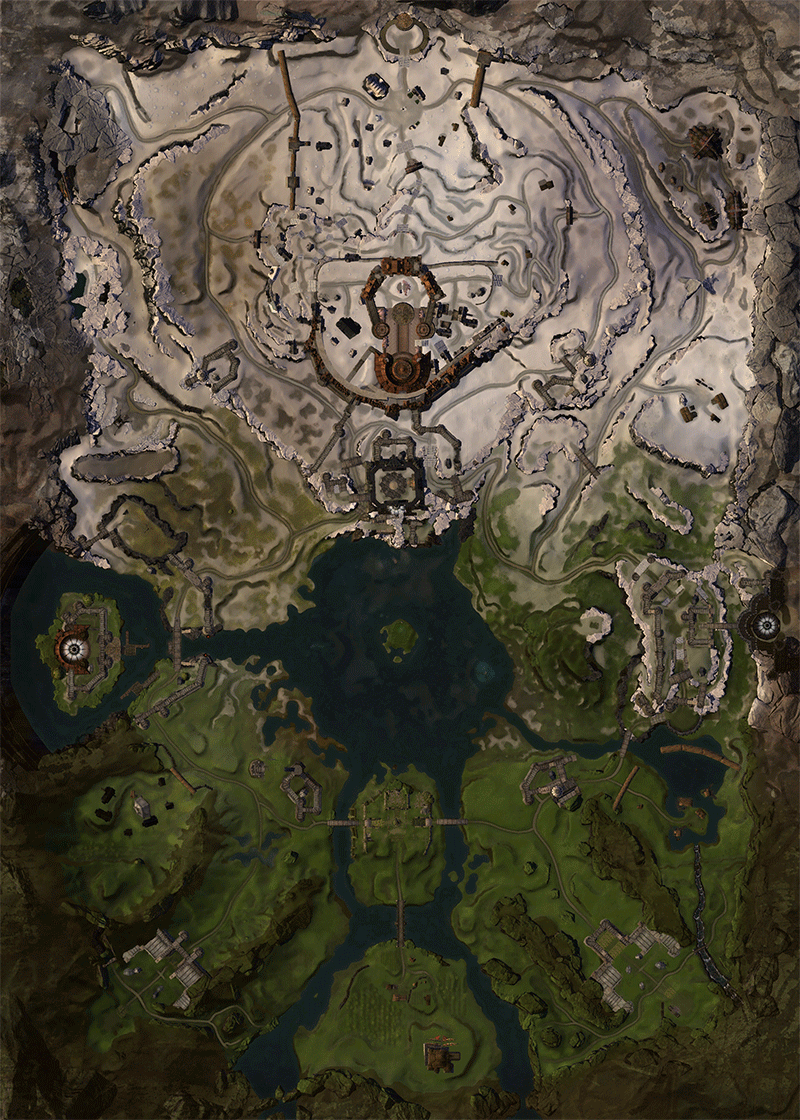
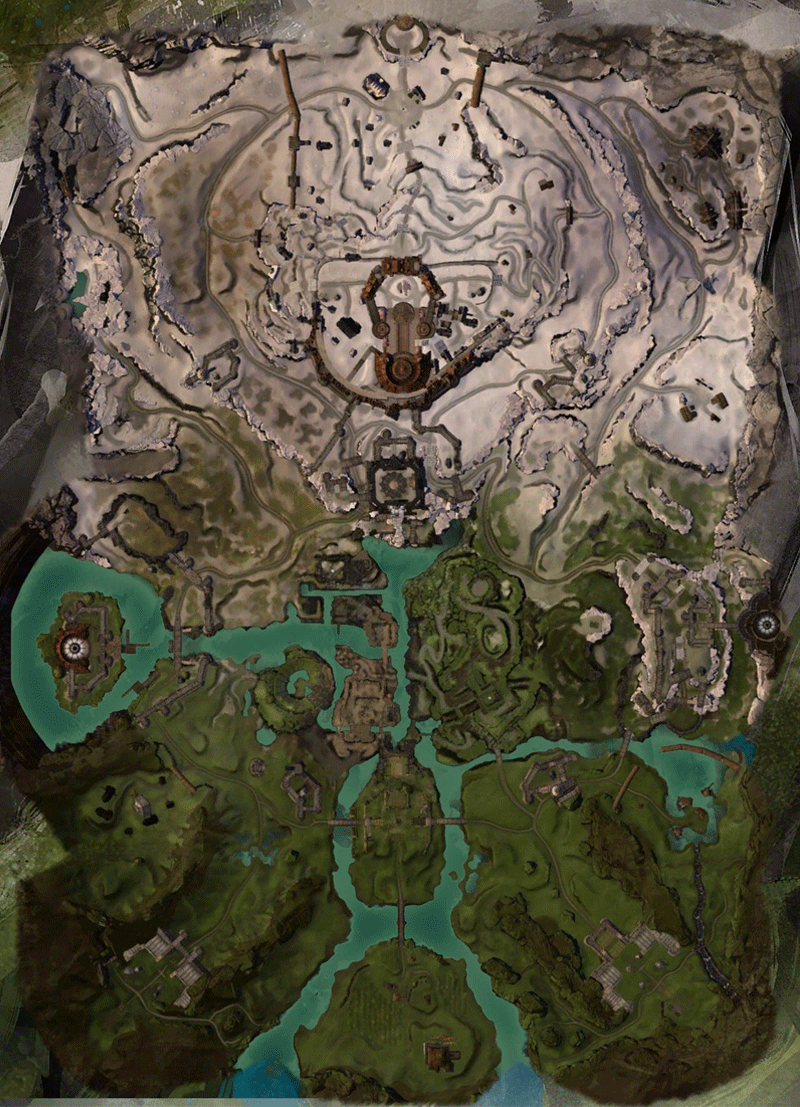
Bloodlust patch

diff --git a/GWvW_Overlay/JSON.cs b/GWvW_Overlay/JSON.cs
@@ -323,6 +323,9 @@ namespace GWvW_Overlay
         private double _width = 400;
         private double _height = 400;
 
+        private double _min_width;
+        private double _min_height;
+
         private string _active_bl_title = "Eternal Battlegrounds";
         public string _active_match;// = "1-1";
 
@@ -401,6 +404,14 @@ namespace GWvW_Overlay
             }
         }
 
+        public double min_width
+        {
+            get { if (active_bl == "Center") return Properties.Settings.Default.main_eb_width; else return Properties.Settings.Default.main_bl_width; }
+        }
+        public double min_height
+        {
+            get { if (active_bl == "Center") return Properties.Settings.Default.main_eb_height; else return Properties.Settings.Default.main_bl_height; }
+        }
         public double width
         {
             get { return _width; }
@@ -408,6 +419,7 @@ namespace GWvW_Overlay
             {
                 if (value != _width)
                 {
+                    Console.WriteLine("W:{0}", value.ToString());
                     _width = value;
                     OnPropertyChanged();
                 }
@@ -421,6 +433,7 @@ namespace GWvW_Overlay
             {
                 if (value != _height)
                 {
+                    Console.WriteLine("H:{0}", value.ToString());
                     _height = value;
                     OnPropertyChanged();
                 }
@@ -437,10 +450,8 @@ namespace GWvW_Overlay
 
         public void ChangeWindowSize(double Width, double Height)
         {
-            if (_width != Width)
-                width = Width;
-            if (_height != Height)
-                height = Height;
+            width = Width;
+            height = Height;
         }
         
         

diff --git a/GWvW_Overlay/MainWindow.xaml.cs b/GWvW_Overlay/MainWindow.xaml.cs
@@ -86,6 +86,7 @@ namespace GWvW_Overlay
         public MainWindow()
         {
             InitializeComponent();
+            MaxHeight = SystemParameters.MaximizedPrimaryScreenHeight - 50.0;
             SourceInitialized += Window_SourceInitialized;
 
             _hhook = SetWinEventHook(Natives.EVENT_SYSTEM_FOREGROUND, Natives.EVENT_SYSTEM_FOREGROUND, IntPtr.Zero,
@@ -609,8 +610,8 @@ namespace GWvW_Overlay
             if (LogWindow != null)
                 LogWindow.lblBLTitle.Content = WvwMatch.Options.active_bl_title;
 
-            InvalidateVisual();
-
+            MainWindow1.InvalidateVisual();
+            
             CnvsBlSelection.Visibility = Visibility.Hidden;
         }
 
@@ -697,7 +698,6 @@ namespace GWvW_Overlay
 
                             double diffWidth = Math.Min(Math.Abs(p.X - pos.x), Math.Abs(p.X - pos.x - pos.cx));
                             double diffHeight = Math.Min(Math.Abs(p.Y - pos.y), Math.Abs(p.Y - pos.y - pos.cy));
-
                             _adjustingHeight = diffHeight > diffWidth;
                         }
 

diff --git a/README.md b/README.md
@@ -14,6 +14,10 @@ Usage
 
 Changes
 ============
+(9/17/2013)
+- Replaced outdated borderlands map
+- Added new icons for Bloodlust objectives
+
 (7/02/2013)
 - Added reset option for main window
 
